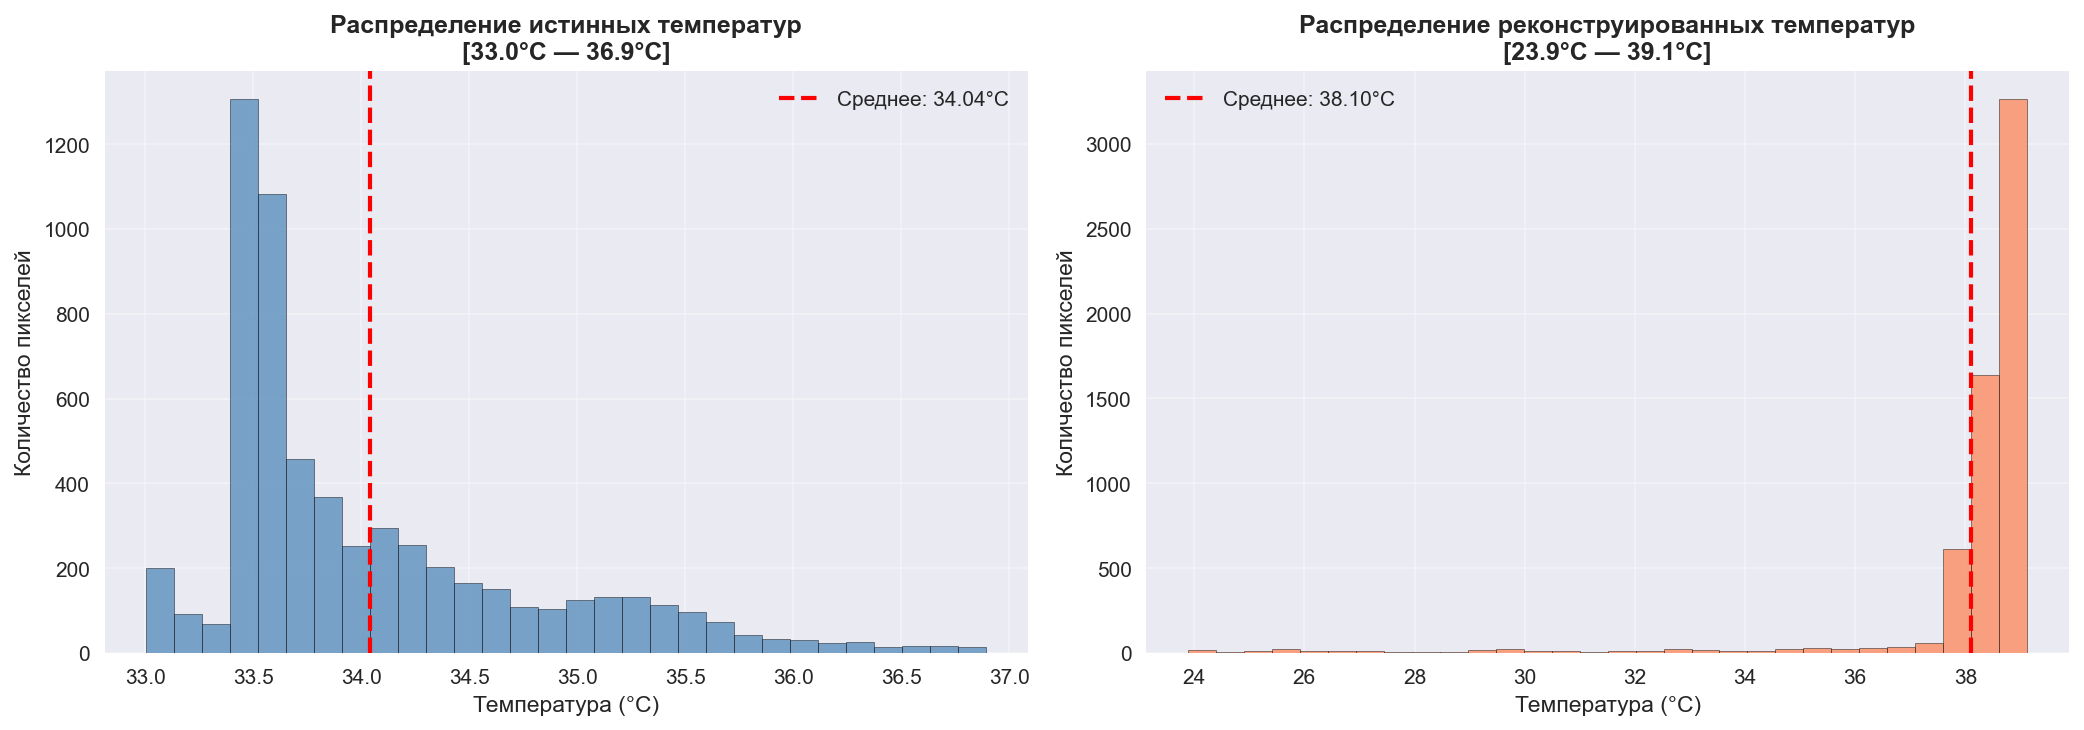
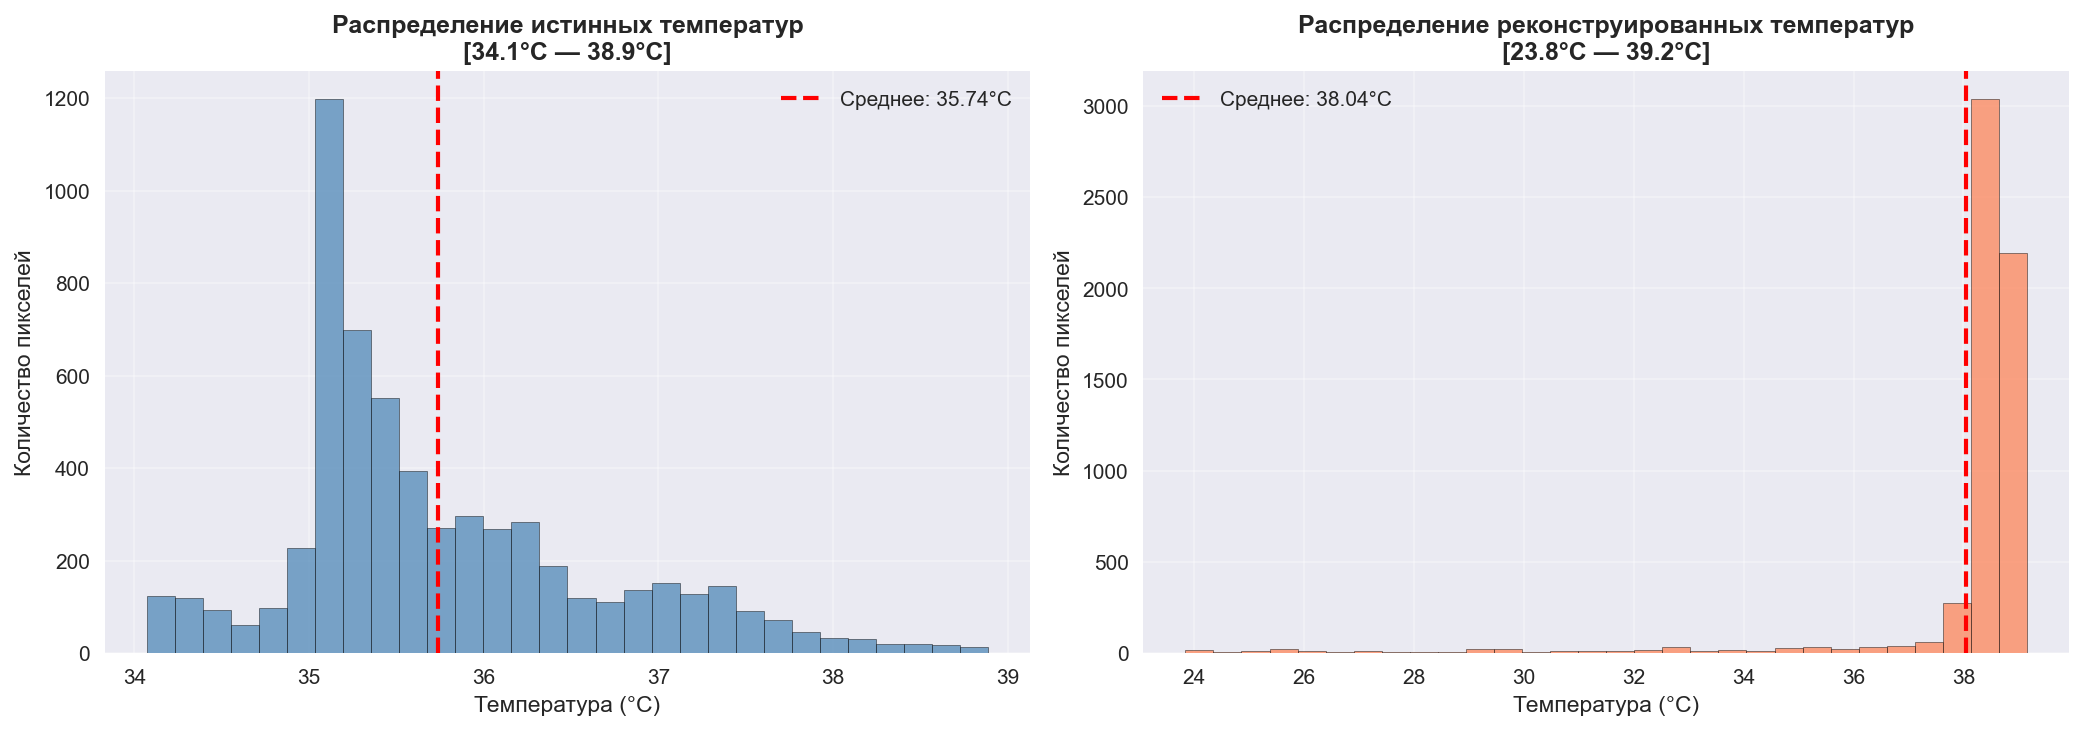
v2_3 - favorite

diff --git a/v2_3_add_form.py b/v2_3_add_form.py
@@ -26,52 +26,52 @@ class BreastRadiometryModelReal:
             'fat': {
                 'mean_eps': 10.5, 'std_eps': 1.5, 
                 'mean_cond': 0.15, 'std_cond': 0.05, 
-                'temp_base': 34.2, 'temp_offset': 0.0
+                'temp_base': 35.0, 'temp_offset': 0.0
             },
             'fat_subcutaneous': {
                 'mean_eps': 9.5, 'std_eps': 1.2, 
                 'mean_cond': 0.12, 'std_cond': 0.04, 
-                'temp_base': 33.8, 'temp_offset': 0.0
+                'temp_base': 34.8, 'temp_offset': 0.0
             },
             'fat_retromammary': {
                 'mean_eps': 10.0, 'std_eps': 1.3, 
                 'mean_cond': 0.14, 'std_cond': 0.04, 
-                'temp_base': 35.2, 'temp_offset': 0.0
+                'temp_base': 35.0, 'temp_offset': 0.0
             },
             'gland': {
                 'mean_eps': 48.0, 'std_eps': 6.0, 
                 'mean_cond': 2.6, 'std_cond': 0.4, 
-                'temp_base': 34.2, 'temp_offset': 0.8
+                'temp_base': 35.0, 'temp_offset': 0.8
             },
             'gland_ducts': {
                 'mean_eps': 52.0, 'std_eps': 5.0, 
                 'mean_cond': 3.0, 'std_cond': 0.5, 
-                'temp_base': 34.2, 'temp_offset': 1.0
+                'temp_base': 35.0, 'temp_offset': 1.0
             },
             'connective': {
                 'mean_eps': 35.0, 'std_eps': 4.0, 
                 'mean_cond': 1.5, 'std_cond': 0.3, 
-                'temp_base': 34.2, 'temp_offset': 0.3
+                'temp_base': 35.0, 'temp_offset': 0.3
             },
             'tumor': {
                 'mean_eps': 58.0, 'std_eps': 8.0, 
                 'mean_cond': 4.2, 'std_cond': 0.8, 
-                'temp_base': 37.5, 'temp_offset': 0.0
+                'temp_base': 38.0, 'temp_offset': 0.0
             },
             'nipple': {
                 'mean_eps': 52.0, 'std_eps': 5.0, 
                 'mean_cond': 3.0, 'std_cond': 0.5, 
-                'temp_base': 34.2, 'temp_offset': 0.6
+                'temp_base': 35.0, 'temp_offset': 0.6
             },
             'body': {
                 'mean_eps': 50.0, 'std_eps': 5.0, 
                 'mean_cond': 2.0, 'std_cond': 0.3, 
-                'temp_base': 37.0, 'temp_offset': 0.0
+                'temp_base': 35.0, 'temp_offset': 0.0
             },
             'skin': {
                 'mean_eps': 38.0, 'std_eps': 4.0, 
                 'mean_cond': 1.2, 'std_cond': 0.2, 
-                'temp_base': 33.5, 'temp_offset': 0.0
+                'temp_base': 33.8, 'temp_offset': 0.0
             }
         }
 
@@ -330,82 +330,111 @@ class BreastRadiometryModelReal:
             temp_offset_map[body_mask] = offset
             tissue_type_map[body_mask] = 11
         
-        # 6. ТЕМПЕРАТУРНЫЙ ГРАДИЕНТ
+        # =============================================================================
+        # 🌡 6. ТЕМПЕРАТУРНЫЙ ГРАДИЕНТ (ИСПРАВЛЕНО — УЧИТЫВАЕМ temp_base!)
+        # =============================================================================
+
+        # 6.1 Расстояние от поверхности
         dist_from_surface = distance_transform_edt(~breast_mask)
         dist_from_surface = dist_from_surface.astype(float)
         dist_from_surface[~breast_mask] = 0
-        
+
         max_dist = dist_from_surface[breast_mask].max()
         if max_dist > 0:
             normalized_depth = dist_from_surface / max_dist
         else:
             normalized_depth = np.zeros_like(dist_from_surface)
-        
-        depth_temp = 33.5 + 3.5 * (normalized_depth ** 0.6)
-        temp_map = depth_temp * breast_mask + temp_offset_map
-        temp_map[~breast_mask] = 20.0
-        
+
+        # 6.2 🔥 Градиент глубины (+0 до +2°C)
+        depth_gradient = 2.0 * (normalized_depth ** 0.6)
+
+        # 6.3 🔥 Применяем градиент ПОВЕРХ temp_base из tissue_props!
+        temp_map = temp_map + depth_gradient * breast_mask
+
+        # 6.4 Добавляем оффсеты (протоки, дольки, сосок теплее)
+        temp_map = temp_map + temp_offset_map * breast_mask
+
+        # 6.5 Небольшой шум для естественности
         noise = np.random.normal(0, 0.08, shape)
         temp_map = temp_map + noise * breast_mask
-        
-        temp_map = gaussian_filter(temp_map, sigma=1.2)
+
+        # 6.6 Сглаживание (минимальное для сохранения различий)
+        temp_map = gaussian_filter(temp_map, sigma=0.8)
         temp_map[~breast_mask] = 20.0
-        temp_map = np.clip(temp_map, 33.0, 39.0)
+
+        # 6.7 Ограничение диапазона
+        temp_map = np.clip(temp_map, 34.0, 39.5)
         temp_map[~breast_mask] = 20.0
+
+        # 🔥 ВОСПАЛЕНИЕ вокруг опухоли — перенесено В раздел 7 (после создания опухоли)!
         
-        # 7. ОПУХОЛЬ
+            # =============================================================================
+        # 🎗 7. ОПУХОЛЬ (ИСПРАВЛЕНО)
+        # =============================================================================
+
         self.tumor_center = None
-        
+        tumor_ty, tumor_tx = None, None  # 🔥 Локальные переменные
+
         if tumor_pos is not None:
-            ty, tx = tumor_pos
-            if 0 <= ty < h and 0 <= tx < w:
-                if final_gland_mask[ty, tx]:
-                    print(f"✅ Опухоль создана в заданной позиции: Y={ty}, X={tx}")
+            tumor_ty, tumor_tx = tumor_pos
+            if 0 <= tumor_ty < h and 0 <= tumor_tx < w:
+                if final_gland_mask[tumor_ty, tumor_tx]:
+                    print(f"✅ Опухоль создана в заданной позиции: Y={tumor_ty}, X={tumor_tx}")
                 else:
-                    print(f"⚠ Позиция ({ty}, {tx}) вне железистой ткани! Коррекция...")
+                    print(f"⚠ Позиция ({tumor_ty}, {tumor_tx}) вне железистой ткани! Коррекция...")
                     y_coords, x_coords = np.where(final_gland_mask)
                     if len(y_coords) > 0:
-                        dists = np.sqrt((y_coords - ty)**2 + (x_coords - tx)**2)
+                        dists = np.sqrt((y_coords - tumor_ty)**2 + (x_coords - tumor_tx)**2)
                         nearest_idx = np.argmin(dists)
-                        ty, tx = y_coords[nearest_idx], x_coords[nearest_idx]
-                        print(f"✅ Скорректированная позиция: Y={ty}, X={tx}")
+                        tumor_ty, tumor_tx = y_coords[nearest_idx], x_coords[nearest_idx]
+                        print(f"✅ Скорректированная позиция: Y={tumor_ty}, X={tumor_tx}")
                     else:
                         print("⚠ Не удалось скорректировать позицию")
                         tumor_pos = None
             else:
-                print(f"⚠ Позиция ({ty}, {tx}) вне сетки! Генерация случайной...")
+                print(f"⚠ Позиция ({tumor_ty}, {tumor_tx}) вне сетки! Генерация случайной...")
                 tumor_pos = None
-        
+
         if tumor_pos is None:
             valid_y, valid_x = np.where(final_gland_mask & (y > h*0.30) & (y < h*0.65))
             if len(valid_y) > 0:
                 idx = np.random.randint(0, len(valid_y))
-                ty, tx = valid_y[idx], valid_x[idx]
-                print(f"🎲 Опухоль создана в случайной позиции: Y={ty}, X={tx}")
+                tumor_ty, tumor_tx = valid_y[idx], valid_x[idx]
+                print(f"🎲 Опухоль создана в случайной позиции: Y={tumor_ty}, X={tumor_tx}")
             else:
                 print("⚠ Не удалось найти позицию для опухоли")
                 return eps_map, cond_map, temp_map, breast_mask, areola_mask, nipple_mask, body_mask, tissue_type_map
-        
+
+        # Создаём опухоль
         tumor_y, tumor_x = np.ogrid[:h, :w]
-        dist_from_tumor = np.sqrt((tumor_x - tx)**2 + (tumor_y - ty)**2)
-        
+        dist_from_tumor = np.sqrt((tumor_x - tumor_tx)**2 + (tumor_y - tumor_ty)**2)
+
         tumor_sigma = tumor_radius * 1.5
         tumor_temp_elevation = 2.5 * np.exp(-dist_from_tumor**2 / (2 * tumor_sigma**2))
-        
+
         temp_map = temp_map + tumor_temp_elevation * breast_mask
-        temp_map = np.clip(temp_map, 33.0, 39.5)
+        temp_map = np.clip(temp_map, 34.0, 39.5)
         temp_map = gaussian_filter(temp_map, sigma=1.0)
         temp_map[~breast_mask] = 20.0
-        
+
+        # 🔥 ВОСПАЛЕНИЕ вокруг опухоли (теперь работает!)
+        inflammation_radius = tumor_radius * 3
+        inflammation_effect = 0.5 * np.exp(-dist_from_tumor**2 / (2 * inflammation_radius**2))
+        temp_map = temp_map + inflammation_effect * breast_mask
+        temp_map = np.clip(temp_map, 34.0, 39.5)
+
+        # Диэлектрические свойства опухоли
         tumor_eps_elevation = 15.0 * np.exp(-dist_from_tumor**2 / (2 * tumor_sigma**2))
         eps_map = eps_map + tumor_eps_elevation * breast_mask
         eps_map = gaussian_filter(eps_map, sigma=1.5)
         eps_map[~breast_mask] = 1.0
-        
-        self.tumor_center = (ty, tx)
+
+        # Сохраняем центр опухоли
+        self.tumor_center = (tumor_ty, tumor_tx)
 
         return eps_map, cond_map, temp_map, breast_mask, areola_mask, nipple_mask, body_mask, tissue_type_map
 
+    # ... (остальные методы класса без изменений)
     def compute_sensitivity_kernel(self, mask, ant_pos):
         h, w = mask.shape
         y, x = np.ogrid[:h, :w]
